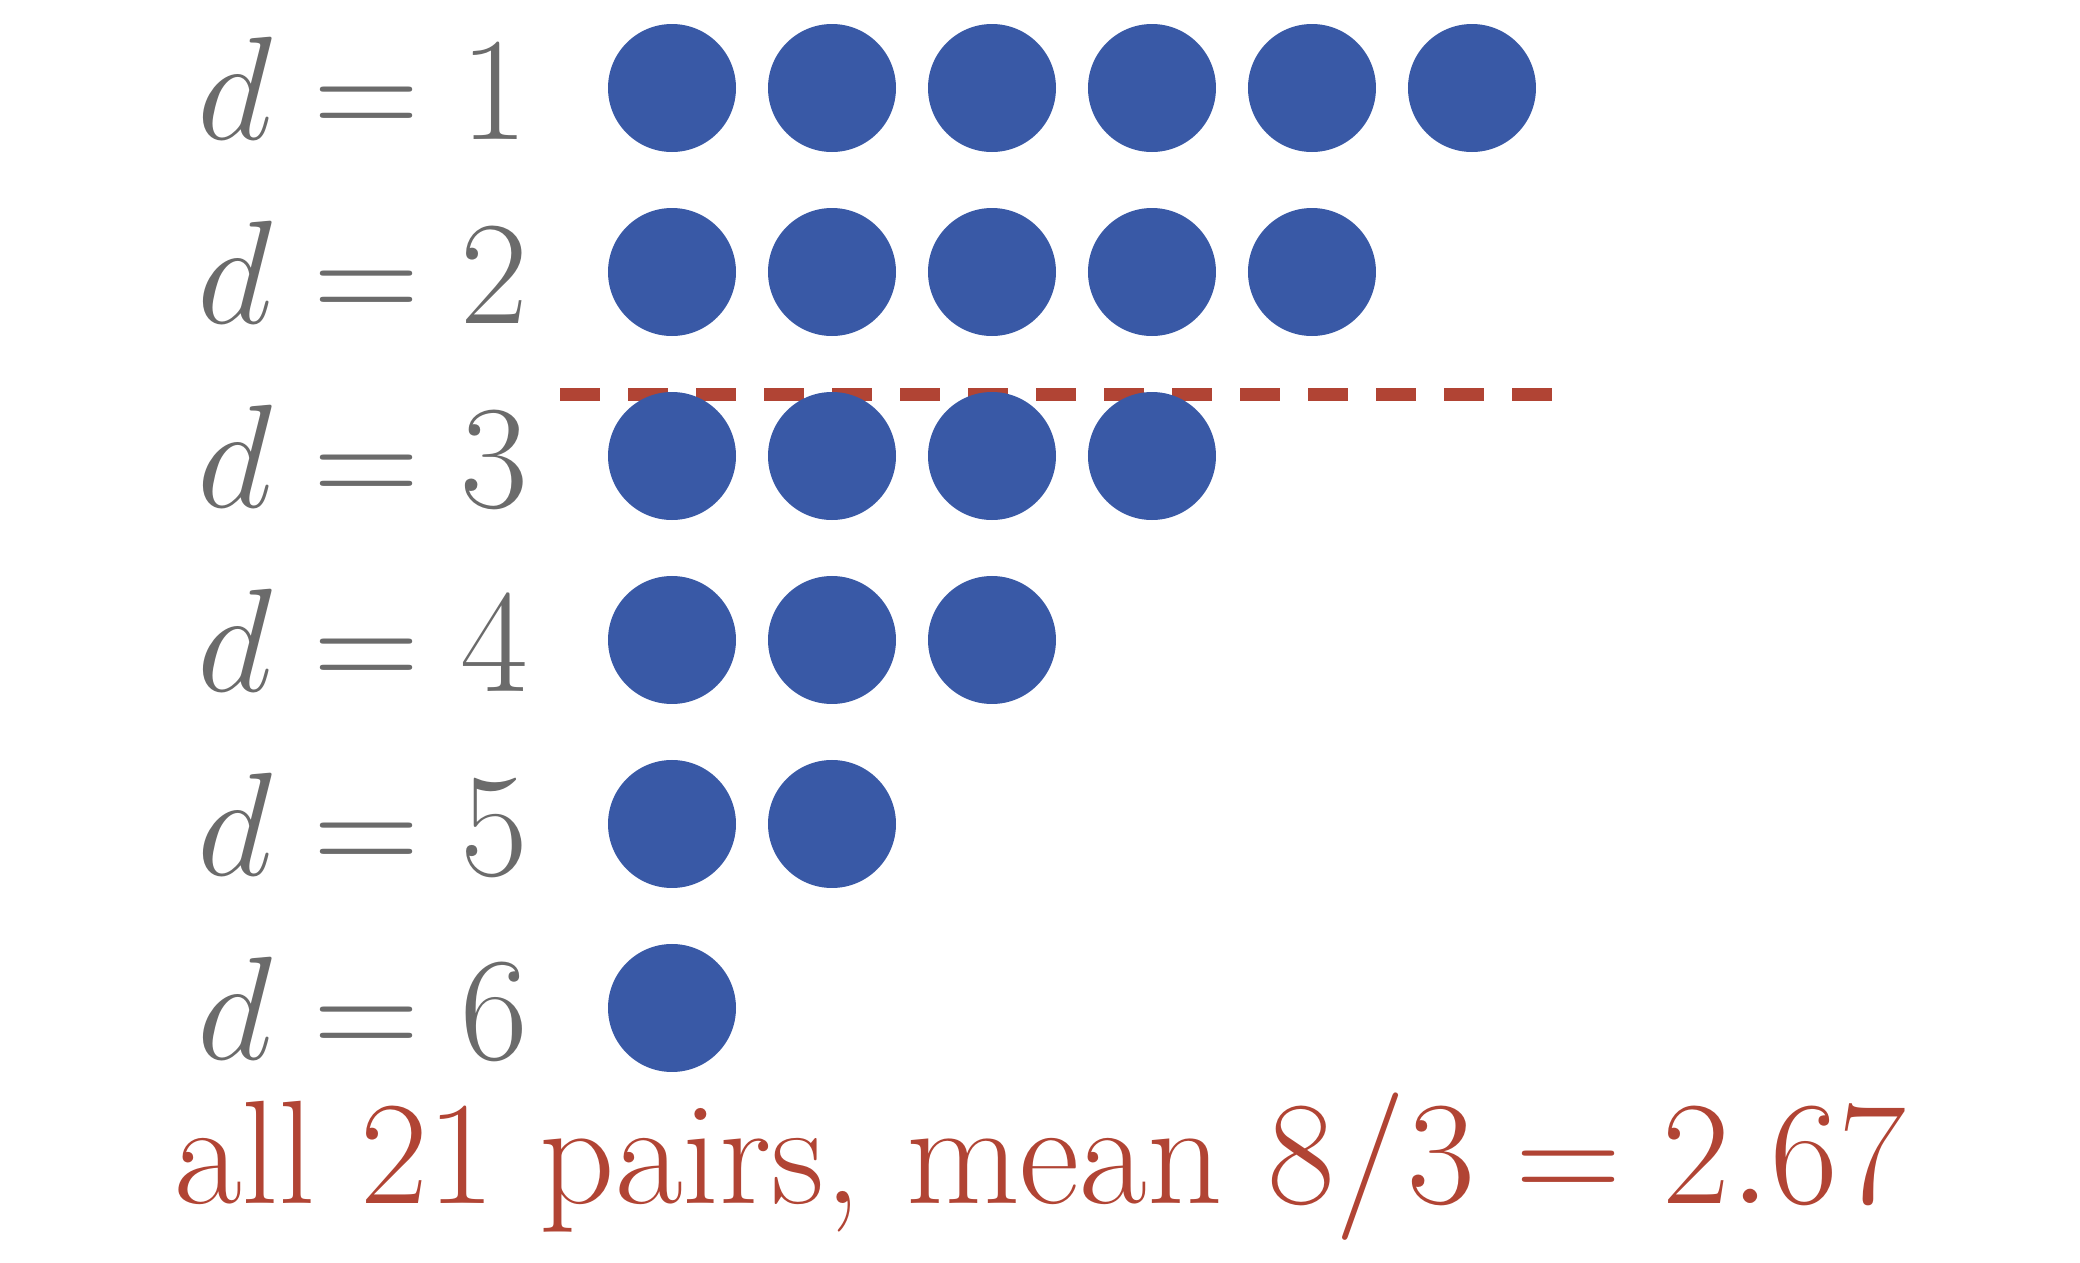
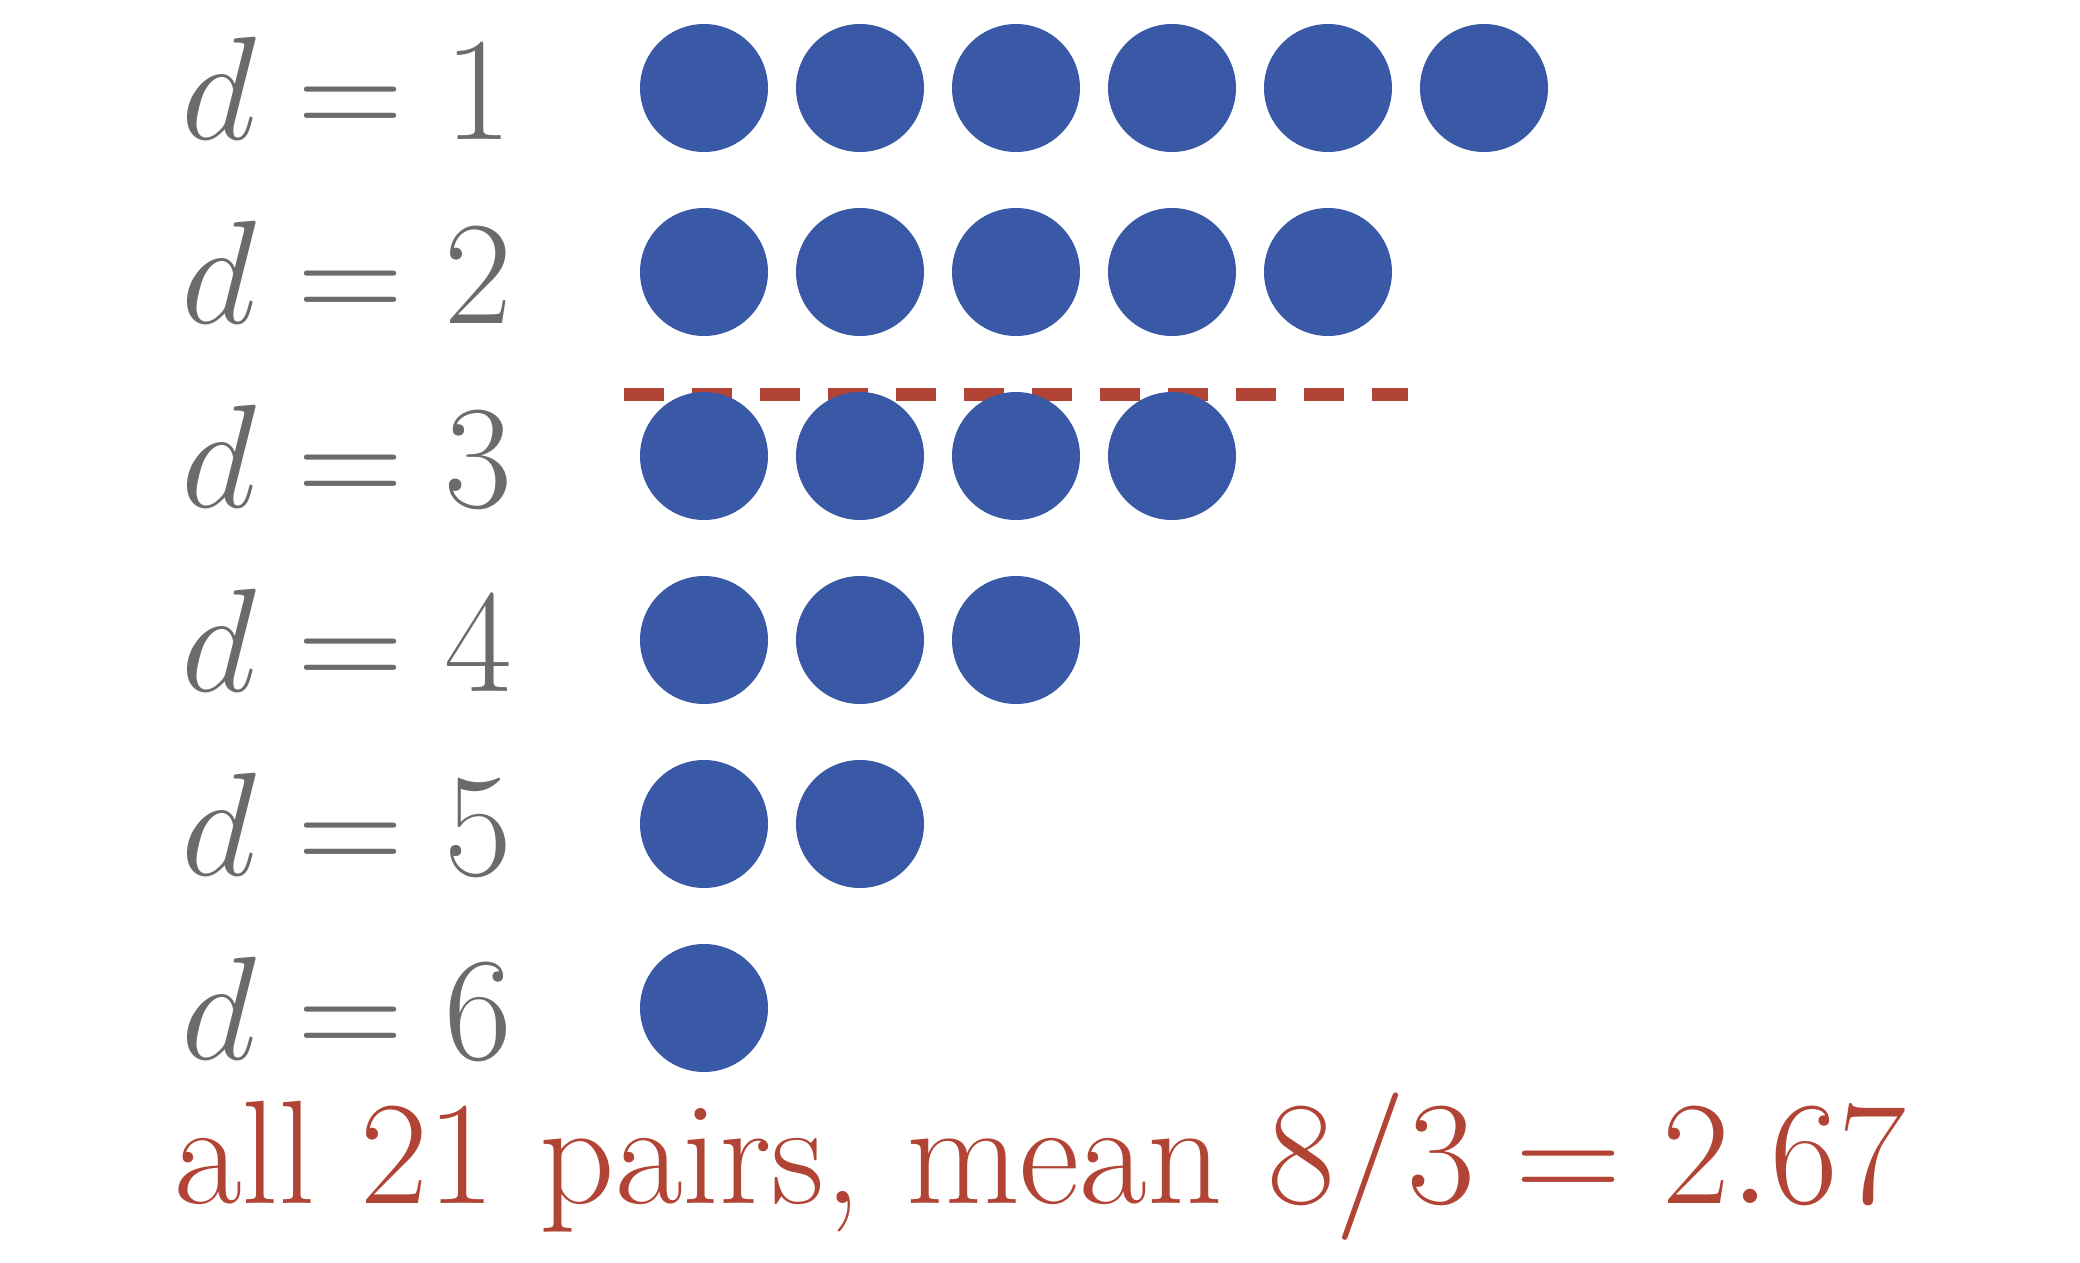
m02 figures: the lecturer's three items
The mean rule in the two dot plots ran the full canvas width, so on apl-shortcut it
passed through the rows the "d = 2" label occupies with 10bp of white between them and
read as a deletion mark struck through the label. It now starts a measured 20bp clear of
the widest row label -- asserted, not eyeballed -- and is clipped to the two rows the
mean actually falls between, which also removes the 64bp of rule that ran past any dot at
its own height.

transitivity-def asserted the 55 instead of deriving it, and 55 is precisely the number
that separates the deck's definition of a triplet from the wrong one. It now counts them
at their centre node the way slide 34 does: C(k_i,2) per node, the hub's C(10,2) = 45
plus ten blades, and C = 3x5/55 = 3/11 = 0.27. Every one of those numbers is computed
from the graph and cross-checked against nx.transitivity.

a3-formula was already clear of the drawing from the round-2 pass; assert_text_clear()
keeps it that way by failing the build if any stroke crosses a measured glyph box.

Claude-Session: https://claude.ai/code/session_01UDgzCbqaqm3XcUsdnKFffF

diff --git a/docs/slide/new/m02/figures/make_figures.py b/docs/slide/new/m02/figures/make_figures.py
@@ -1016,19 +1016,34 @@ def _dotplot(counts, mean):
     """21 pairs, one dot each, laid out in rows by distance -- so the tallest column of
     the two plots (9 pairs at d=2) still fits inside a column figure.
 
-    The mean rule is clipped to the dots it summarises: at full canvas width it ran 112bp
-    past the last dot and struck through the `d = 2` row label like a deletion mark."""
-    x0, dx, ytop, dy = 168, 40, 300, 46
-    xr = max(x0 + (counts.get(d, 1) - 1) * dx for d in range(1, 7))
+    The mean rule spans the dots it summarises and nothing else.  Two separate defects
+    came out of letting it run the full canvas width:
+
+    * it reached into the row-label column.  Measured on the render, the rule occupied
+      rows 230-243 while the `d = 2` label's glyphs occupied 257-519 in x on those very
+      rows -- 10bp of white between them -- so the red line read as a deletion mark
+      struck through the label.  It now starts a measured 20bp clear of the widest label.
+    * it overran the dots.  The mean falls BETWEEN two rows, so the rule is clipped to
+      the wider of those two rows; drawn to the widest row in the whole plot it ended
+      64bp past any dot at its own height, which is a level line pointing at nothing.
+    """
+    x0, dx, ytop, dy = 176, 39, 300, 46
+    lab_x = 128                                   # row labels, anchored east
     ym = ytop - (float(mean) - 1) * dy
+    lo, hi = math.floor(float(mean)), math.ceil(float(mean))
+    xr = max(x0 + (counts.get(d, 1) - 1) * dx for d in {lo, hi})
+    xl = x0 - DOT / 2 - 4
+    gap = xl - lab_x
+    assert gap >= 20, (f"the mean rule starts {gap:.0f}bp from the row labels -- under "
+                       f"20bp the red reads as a strikethrough on the label it passes")
     # the rule goes down FIRST, so the discs cover it: the mean falls between two rows and
     # at 1.81 it lands inside the d = 2 discs, where a line drawn on top reads as a
     # strikethrough rather than as a level
-    s = seg((x0 - DOT / 2 - 12, ym), (xr + DOT / 2 + 8, ym), color="accenttwo", w=3.4,
+    s = seg((xl, ym), (xr + DOT / 2 + 4, ym), color="accenttwo", w=3.4,
             dash="dash pattern=on 10bp off 7bp")
     for d in range(1, 7):
         y = ytop - (d - 1) * dy
-        s += text(132, y, f"$d={d}$", color="annot", anchor="east")
+        s += text(lab_x, y, f"$d={d}$", color="annot", anchor="east")
         for k in range(counts.get(d, 0)):
             s += dot(x0 + k * dx, y, "accent")
     s += text(260, 12, f"all {sum(counts.values())} pairs, mean "
@@ -1378,15 +1393,46 @@ def fig_windmill_split():
     return s
 
 
+# Every number this figure prints, derived rather than asserted.  A triplet is counted at
+# its CENTRE node -- the middle node of the two edges -- so a node of degree k contributes
+# C(k,2) of them and one triangle contains three closed triplets.  That is the deck's own
+# definition as of slide 34, and it is the only reading that produces the deck's 0.27.
+WM_HUB_K = 10                                     # the hub's degree
+WM_BLADE_K = 2                                    # every blade node's degree
+WM_HUB_TRIPLETS = math.comb(WM_HUB_K, 2)          # 45
+WM_BLADE_TRIPLETS = 10 * math.comb(WM_BLADE_K, 2)  # 10 nodes x 1
+WM_TRIANGLES = sum(nx.triangles(WINDMILL).values()) // 3
+WM_CLOSED = 3 * WM_TRIANGLES                      # three closed triplets per triangle
+WM_T = Fraction(WM_CLOSED, WM_HUB_TRIPLETS + WM_BLADE_TRIPLETS)
+assert sorted(dict(WINDMILL.degree()).values()) == [2] * 10 + [10]
+assert WM_HUB_TRIPLETS + WM_BLADE_TRIPLETS == TRIPLETS == 55
+assert WM_T == Fraction(3, 11) and abs(float(WM_T) - nx.transitivity(WINDMILL)) < 1e-12
+
+
 def fig_transitivity_def():
+    """The arithmetic, set as mathematics, next to the drawing it is counted from.
+
+    This figure used to print "5 triangles shaded / 55 triplets in all", which asserts
+    the 55 without deriving it -- and 55 is exactly the number that separates the deck's
+    definition of a triplet from the wrong one, so it is the number that has to be shown
+    being built.
+    """
     s = ""
     for b in range(5):
         p, q = WM[(b, 0)], WM[(b, 1)]
         s += (f"\\fill[accenttwo,opacity=0.24] ({WM_HUB[0]},{WM_HUB[1]}) -- "
               f"({p[0]:.1f},{p[1]:.1f}) -- ({q[0]:.1f},{q[1]:.1f}) -- cycle;\n")
     s += _windmill()
-    s += text(700, 250, "5 triangles shaded", color="accenttwo", anchor="west")
-    s += text(700, 130, "55 triplets in all", color="black", anchor="west")
+    x, total = 620, WM_HUB_TRIPLETS + WM_BLADE_TRIPLETS
+    s += text(x, 302, "each node: $\\binom{k_i}{2}$ triplets", color="black",
+              anchor="west")
+    s += text(x, 232, f"hub $\\binom{{{WM_HUB_K}}}{{2}} = {WM_HUB_TRIPLETS}$",
+              color="black", anchor="west")
+    s += text(x, 172, f"$+$ 10 blades $= {WM_BLADE_TRIPLETS}$, so ${total}$",
+              color="black", anchor="west")
+    s += text(x, 80, f"$C = \\dfrac{{3 \\times {WM_TRIANGLES}}}{{{total}}} = "
+                     f"\\dfrac{{{WM_T.numerator}}}{{{WM_T.denominator}}} "
+                     f"= {float(WM_T):.2f}$", color="accenttwo", anchor="west")
     return s
 
 
